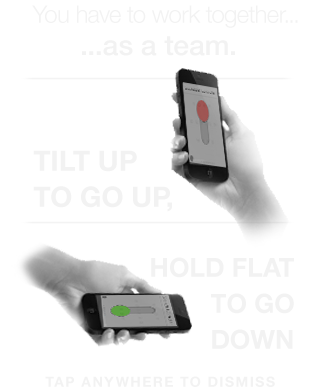
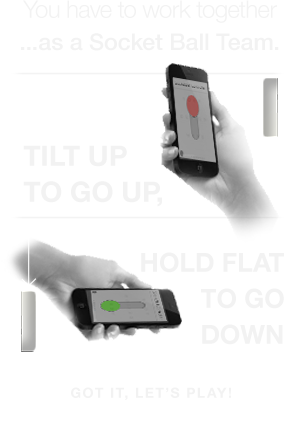
Yeeeeeee updated image and css tweaks

Changed region(s): [[0.03, 0.5567, 0.63, 0.8969], [0.54, 0.1237, 0.9, 0.6186], [0.87, 0.1856, 0.93, 0.3402]]

diff --git a/public/css/app.css b/public/css/app.css
@@ -131,16 +131,10 @@ body {
   margin: auto;
   position: absolute;
   top: 0; left: 0; bottom: 0; right: 0;
-  background:rgba(0,0,0,0.5);
+  background:rgba(0,0,0,0.7);
   -webkit-transition: 0.8s;
   opacity:0;
   pointer-events:none;
-}
-
-.visible {
-  opacity:1;
-  display:block;
-  z-index:9999999;
 }
 
 .goal h1 {
@@ -148,12 +142,13 @@ body {
   margin: auto;
   position: absolute;
   top: 0; left: 0; bottom: 0; right: 0;
-  height:100px;
+  height:180px;
   width:100%;
   font-size:124px;
   -webkit-transition: 0.3s;
   -webkit-transform: translateY(-50px) translateZ(300px) rotate(-10deg);
   opacity:0;
+  color:#fff;
 }
 
 .mobile-container .goal h1{
@@ -312,12 +307,20 @@ body {
   cursor: pointer;
 }
 
+.help span {
+  position:absolute;
+  bottom:4px;
+  left:30px;
+  font-size:18px;
+  color:#333;
+}
+
 .help.open {
   width:80%;
   height:80%;
   background:rgba(0,0,0,0.9);
   border-radius:0px;
-  bottom:10%;
+  bottom:12%;
   left:10%;
   box-shadow:0px 0px 75px 75px rgba(0,0,0,0.9);
 }
@@ -339,7 +342,6 @@ body {
   position:absolute;
   bottom:0px;
   left:0px;
-  border-radius:500px;
 }
 
 /* 3d Ball elements */
@@ -389,4 +391,9 @@ body {
     -webkit-transform: scale(3) rotate(10deg);
 }
 
+.visible {
+  opacity:1;
+  display:block;
+  z-index:9999999;
+}
 
